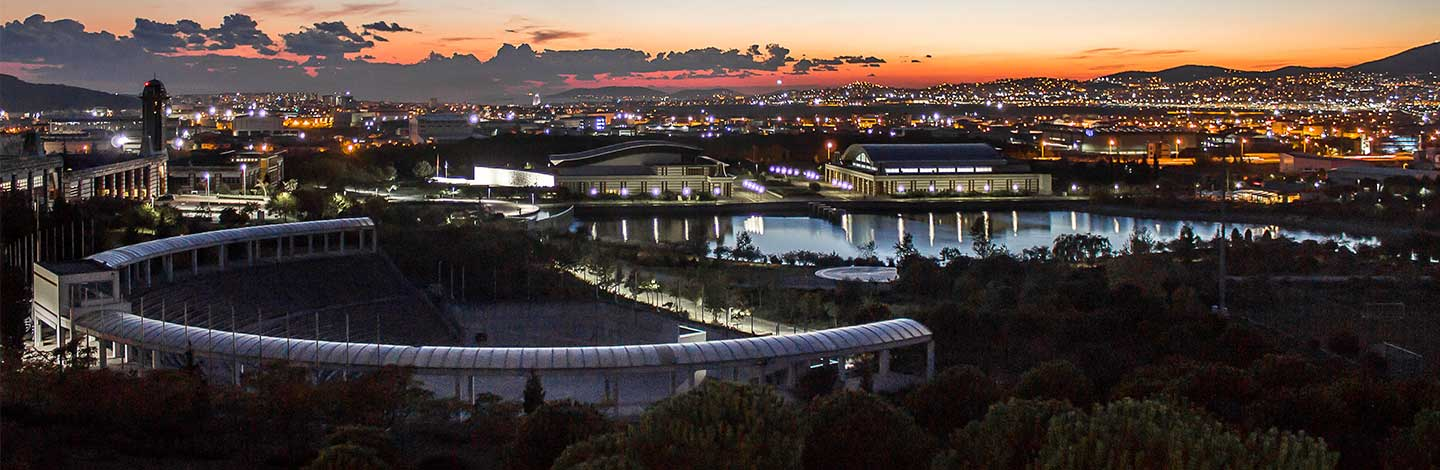
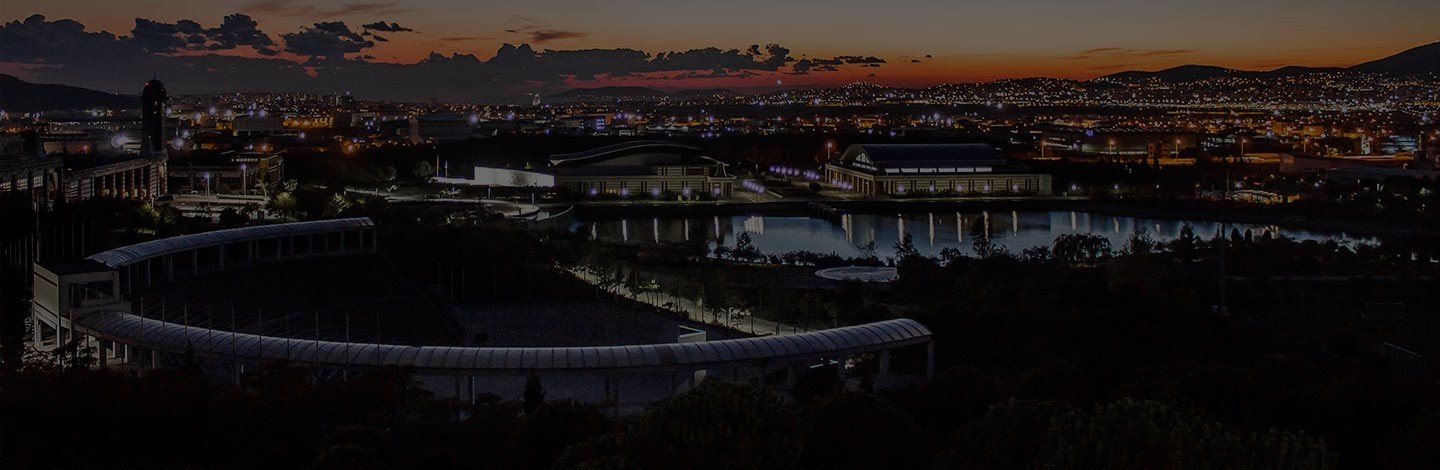
solid images

diff --git a/posters.html b/posters.html
@@ -2,6 +2,7 @@
 layout: default
 title: Posters
 permalink: /posters/
+image: sgm_hall1.jpg
 modal: all
 ---
 {% include top-section.html %}

diff --git a/logistics.html b/logistics.html
@@ -2,6 +2,7 @@
 layout: default
 title: Logistics
 permalink: /logistics/
+image: su_night.jpg
 ---
 
 {% include top-section.html %}
